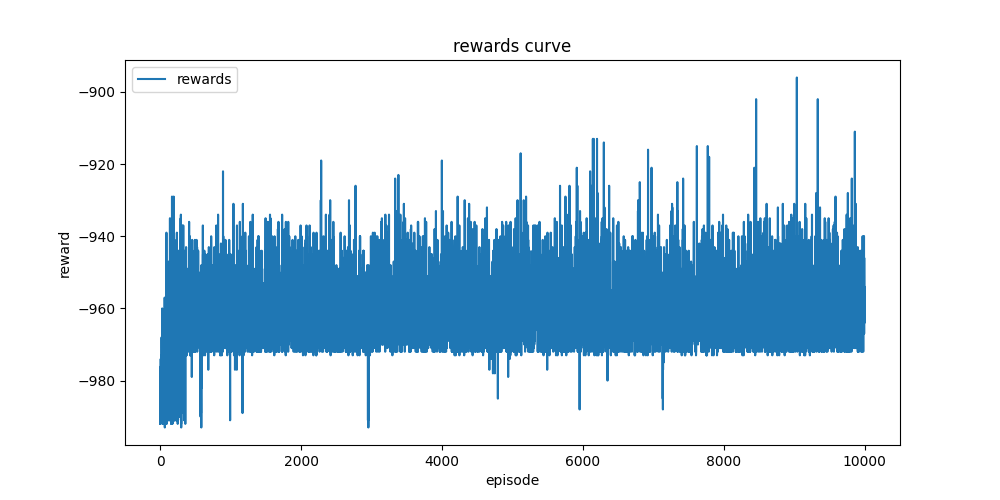
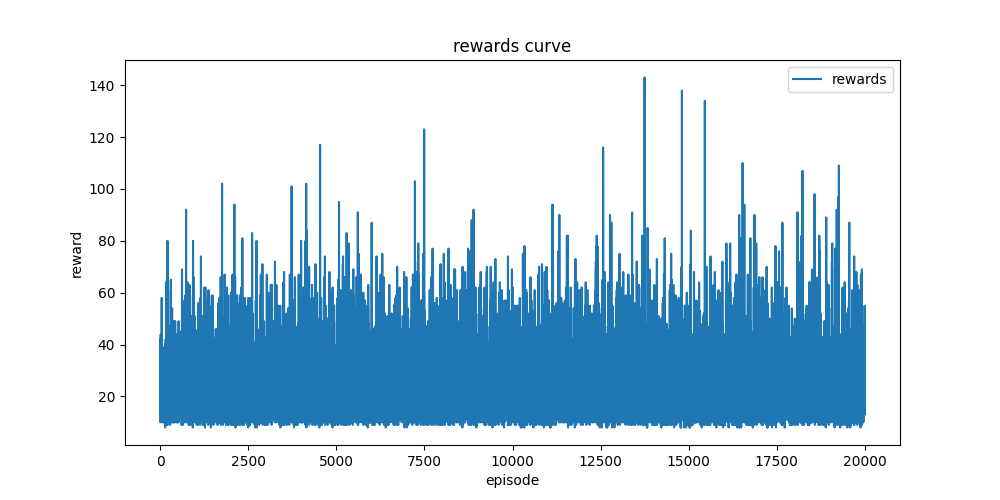
save the repo before; begin to restructure the repo

diff --git a/code/CartPole/train_Qlearning.py b/code/CartPole/train_Qlearning.py
@@ -33,22 +33,22 @@ agent = QLearning(
     gamma = gamma,
     lr = lr,
 )
-pbar = tqdm(
-    total=max_episodes,
-    desc='Training',
-    dynamic_ncols=True,
-)
 ep_rewards = []
-for epoch in range(max_episodes):
+epsilon = 1
+epsilon_decay = 1e-5
+
+i = 0
+while True:
     ep_reward = 0
     state, info = env.reset()
     state = get_state_id(state)
     while True:
-        action = agent.predict(state) 
+        if np.random.uniform(0, 1) > epsilon:
+            action = agent.predict(state) 
+        else:
+            action = env.action_space.sample()  
         next_state, reward, terminated, truncated, info = env.step(action)
         next_state = get_state_id(next_state)
-        if terminated:
-            reward = -1000
         agent.update(
             state = state, 
             action = action, 
@@ -58,12 +58,15 @@ for epoch in range(max_episodes):
         )
         state = next_state
         ep_reward += reward
-        if terminated or ep_reward > 10000:
+        if terminated or ep_reward > 2000:
             break
     ep_rewards.append(ep_reward)
-    pbar.set_postfix(Epoch=epoch, Reward=ep_reward)
-    pbar.update(1)
-pbar.close()
+    epsilon = max(epsilon - epsilon_decay, 0)
+    i += 1
+    if i % 200==0:
+        print(f'Episode: {i} Epsilon: {epsilon:0.2f}  Rewards: {ep_reward:0.1f}')
+    if ep_reward > 2000:
+        break
 env.close()
 agent.save_Q_table(f'{output_dir}/Q_table.json')
 plot_rewards_curve(ep_rewards, f'{output_dir}/rewards_curve.png')

diff --git a/code/CartPole/config.py b/code/CartPole/config.py
@@ -4,5 +4,3 @@ id_name = 'CartPole-v1'
 gamma = 0.99
 lr = 0.1
 
-# train
-max_episodes = 10000
